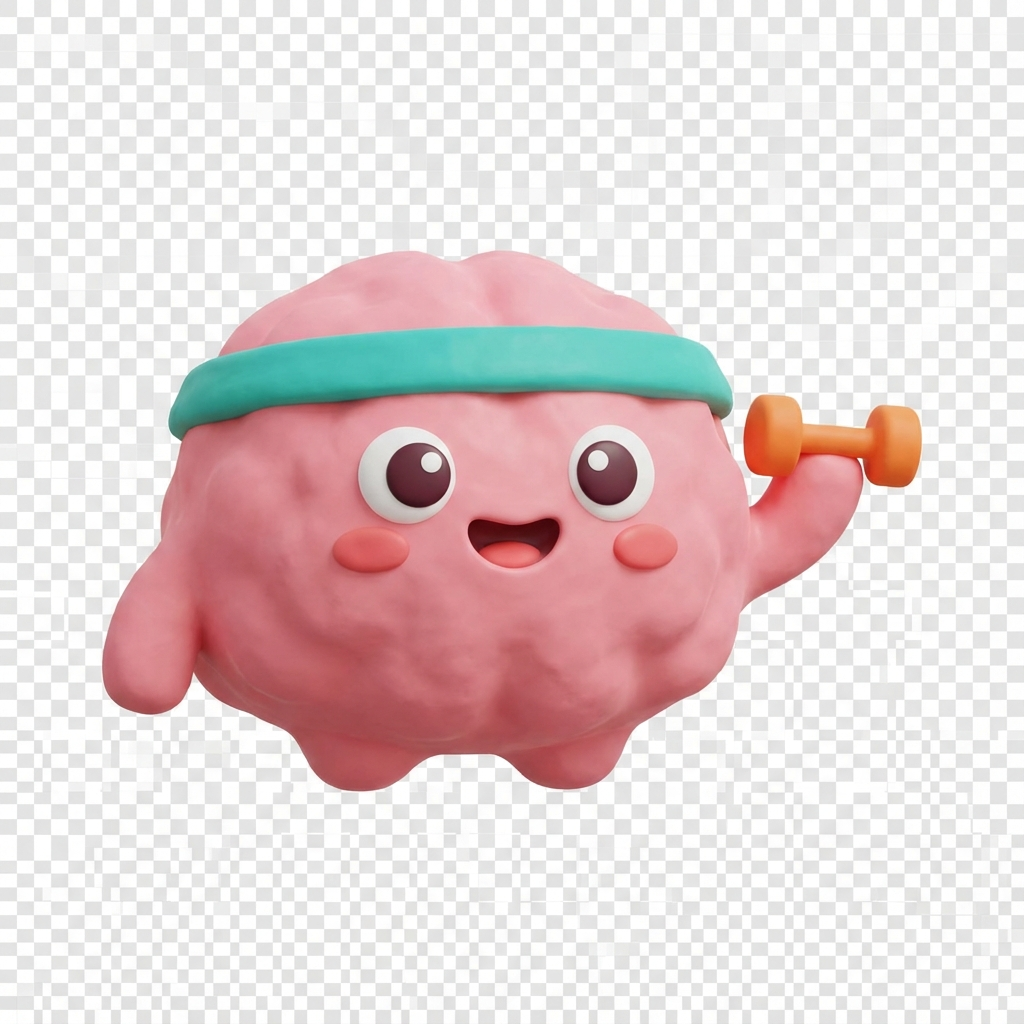
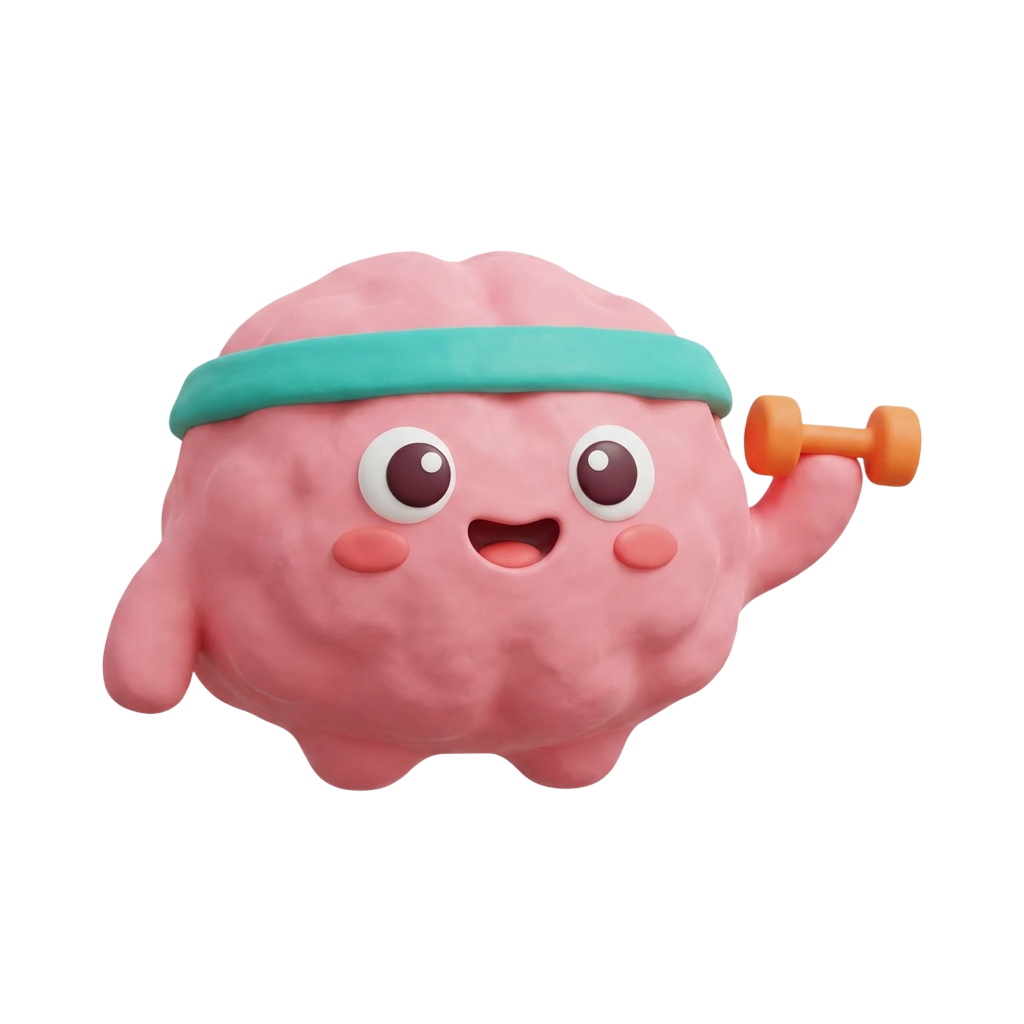
remove bg for pictures and added memory matrix game

diff --git a/components/games/MemoryMatrix.tsx b/components/games/MemoryMatrix.tsx
@@ -1,0 +1,167 @@
+import React, { useState, useEffect, useCallback } from "react";
+import { View, TouchableOpacity } from "react-native";
+import { Text } from "~/components/ui/text";
+import { cn } from "~/lib/utils";
+import * as Haptics from "expo-haptics";
+
+interface MemoryMatrixProps {
+    onComplete: (isCorrect: boolean) => void;
+    difficulty?: "easy" | "medium" | "hard";
+}
+
+type TileState = "hidden" | "active" | "correct" | "incorrect" | "missed";
+type GamePhase = "memorize" | "recall" | "result";
+
+export function MemoryMatrix({
+    onComplete,
+    difficulty = "easy",
+}: MemoryMatrixProps) {
+    const [gridSize, setGridSize] = useState(3);
+    const [activeTiles, setActiveTiles] = useState<number[]>([]);
+    const [selectedTiles, setSelectedTiles] = useState<number[]>([]);
+    const [phase, setPhase] = useState<GamePhase>("memorize");
+
+    // Configuration based on difficulty
+    const getLevelConfig = useCallback(() => {
+        switch (difficulty) {
+            case "medium":
+                return { size: 4, count: 5, time: 1500 };
+            case "hard":
+                return { size: 5, count: 7, time: 1000 };
+            case "easy":
+            default:
+                return { size: 4, count: 4, time: 2000 }; // 4 tiles on 4x4 grid
+        }
+    }, [difficulty]);
+
+    const generateLevel = useCallback(() => {
+        const config = getLevelConfig();
+        setGridSize(config.size);
+
+        // Generate random unique tiles
+        const totalTiles = config.size * config.size;
+        const newActiveTiles: number[] = [];
+        while (newActiveTiles.length < config.count) {
+            const tileIndex = Math.floor(Math.random() * totalTiles);
+            if (!newActiveTiles.includes(tileIndex)) {
+                newActiveTiles.push(tileIndex);
+            }
+        }
+        setActiveTiles(newActiveTiles);
+        setSelectedTiles([]);
+        setPhase("memorize");
+
+        // Switch to recall phase after time
+        setTimeout(() => {
+            setPhase("recall");
+        }, config.time);
+    }, [getLevelConfig]);
+
+    useEffect(() => {
+        generateLevel();
+    }, [generateLevel]);
+
+    const handleTilePress = (index: number) => {
+        if (phase !== "recall") return;
+        if (selectedTiles.includes(index)) return;
+
+        const newSelected = [...selectedTiles, index];
+        setSelectedTiles(newSelected);
+        Haptics.selectionAsync();
+
+        // Check if this tap was correct or wrong? 
+        // Usually memory matrix waits until you tap the number of active tiles.
+        // Or it fails immediately on wrong tap? 
+        // Let's go with "wait until total taps reached" to allow for "oops" if we wanted, 
+        // but typically it's immediate feedback or batch feedback.
+        // Let's do batch feedback when count is reached.
+
+        const config = getLevelConfig();
+
+        if (newSelected.length === config.count) {
+            checkResult(newSelected);
+        }
+    };
+
+    const checkResult = (selections: number[]) => {
+        setPhase("result");
+
+        // Check correctness
+        const allCorrect = selections.every(s => activeTiles.includes(s)) && selections.length === activeTiles.length;
+
+        if (allCorrect) {
+            Haptics.notificationAsync(Haptics.NotificationFeedbackType.Success);
+        } else {
+            Haptics.notificationAsync(Haptics.NotificationFeedbackType.Error);
+        }
+
+        setTimeout(() => {
+            onComplete(allCorrect);
+        }, 1500); // Wait a bit to show the result
+    };
+
+    const getTileState = (index: number): TileState => {
+        if (phase === "memorize") {
+            return activeTiles.includes(index) ? "active" : "hidden";
+        }
+
+        if (phase === "recall") {
+            return selectedTiles.includes(index) ? "active" : "hidden";
+        }
+
+        if (phase === "result") {
+            const isSelected = selectedTiles.includes(index);
+            const isActive = activeTiles.includes(index);
+
+            if (isSelected && isActive) return "correct";
+            if (isSelected && !isActive) return "incorrect";
+            if (!isSelected && isActive) return "missed";
+        }
+
+        return "hidden";
+    };
+
+    return (
+        <View className="flex-1 items-center justify-center p-6">
+            <View className="mb-8 items-center">
+                <Text className="text-2xl font-bold mb-2">Memory Matrix</Text>
+                <Text className="text-muted-foreground text-center">
+                    {phase === "memorize" && "Remember the pattern..."}
+                    {phase === "recall" && "Reproduce the pattern"}
+                    {phase === "result" && "Checking..."}
+                </Text>
+            </View>
+
+            <View
+                className="flex-row flex-wrap justify-center gap-2"
+                style={{ width: gridSize * 70 + (gridSize - 1) * 8 }} // Approx sizing
+            >
+                {Array.from({ length: gridSize * gridSize }).map((_, i) => {
+                    const state = getTileState(i);
+
+                    return (
+                        <TouchableOpacity
+                            key={i}
+                            activeOpacity={0.8}
+                            onPress={() => handleTilePress(i)}
+                            className={cn(
+                                "w-16 h-16 rounded-xl border-2 transition-all duration-200",
+                                // Default state (hidden)
+                                state === "hidden" && "bg-card border-border",
+                                // Active (memorize phase or recall selection)
+                                state === "active" && "bg-primary border-primary",
+                                // Correct (result)
+                                state === "correct" && "bg-green-500 border-green-600",
+                                // Incorrect (result)
+                                state === "incorrect" && "bg-destructive border-destructive",
+                                // Missed (result)
+                                state === "missed" && "bg-yellow-400 border-yellow-500 opacity-50"
+                            )}
+                            disabled={phase !== "recall"}
+                        />
+                    );
+                })}
+            </View>
+        </View>
+    );
+}

diff --git a/app/(onboarding)/templates/GameStep.tsx b/app/(onboarding)/templates/GameStep.tsx
@@ -6,12 +6,16 @@ import { Button } from "~/components/ui/button";
 import { CustomStepProps } from "~/app/(onboarding)/index";
 import { MentalArithmetic } from "~/components/games/MentalArithmetic";
 import { MentalLanguageDiscrimination } from "~/components/games/MentalLanguageDiscrimination";
+import { MemoryMatrix } from "~/components/games/MemoryMatrix";
 import { Progress } from "~/components/ui/progress";
 
 import { useOnboarding } from "~/contexts/OnboardingContext";
 
 export interface GameConfig {
-  type: "mental_arithmetic" | "mental_language_discrimination";
+  type:
+  | "mental_arithmetic"
+  | "mental_language_discrimination"
+  | "memory_matrix";
 }
 
 const TOTAL_ROUNDS = 5;
@@ -54,7 +58,8 @@ export function GameStep({ onNext, onBack, gameConfig }: GameStepProps) {
 
   if (
     gameConfig.type === "mental_arithmetic" ||
-    gameConfig.type === "mental_language_discrimination"
+    gameConfig.type === "mental_language_discrimination" ||
+    gameConfig.type === "memory_matrix"
   ) {
     return (
       <SafeAreaView className="flex-1 bg-background">
@@ -76,8 +81,14 @@ export function GameStep({ onNext, onBack, gameConfig }: GameStepProps) {
                 onComplete={handleRoundComplete}
                 difficulty="easy"
               />
-            ) : (
+            ) : gameConfig.type === "mental_language_discrimination" ? (
               <MentalLanguageDiscrimination
+                key={roundIndex}
+                onComplete={handleRoundComplete}
+                difficulty="easy"
+              />
+            ) : (
+              <MemoryMatrix
                 key={roundIndex}
                 onComplete={handleRoundComplete}
                 difficulty="easy"

diff --git a/app/(onboarding)/index.tsx b/app/(onboarding)/index.tsx
@@ -368,6 +368,43 @@ const STEPS: StepConfig[] = [
       component: InterventionStep,
       title: "Excellent!",
       description: "That measured your verbal discrimination skills.",
+      buttonText: "Next Challenge",
+      variant: "outro",
+    },
+  },
+  // --- Game 3: Memory Matrix ---
+  {
+    title: "",
+    description: "",
+    step: {
+      type: "intervention",
+      component: InterventionStep,
+      title: "Memory Matrix",
+      description: "Let's test your spatial memory and recall.",
+      buttonText: "Start",
+      variant: "intro",
+    },
+  },
+  {
+    title: "Memory Matrix",
+    description: "",
+    step: {
+      type: "game",
+      component: GameStep,
+      fullscreen: true,
+      gameConfig: {
+        type: "memory_matrix",
+      },
+    },
+  },
+  {
+    title: "",
+    description: "",
+    step: {
+      type: "intervention",
+      component: InterventionStep,
+      title: "Great work!",
+      description: "That measured your spatial memory.",
       buttonText: "See Results",
       variant: "outro",
     },

diff --git a/app/(onboarding)/steps/PlanRevealStep.tsx b/app/(onboarding)/steps/PlanRevealStep.tsx
@@ -40,7 +40,6 @@ export default function PlanRevealStep({ onNext, onBack }: PlanRevealStepProps) 
                 {/* Visual Section */}
                 <View className="items-center justify-center relative">
                     {/* Glow Effect */}
-                    <View className="absolute w-64 h-64 bg-primary/20 rounded-full blur-3xl" />
 
                     <Animated.View entering={ZoomIn.duration(600)}>
                         <Image
